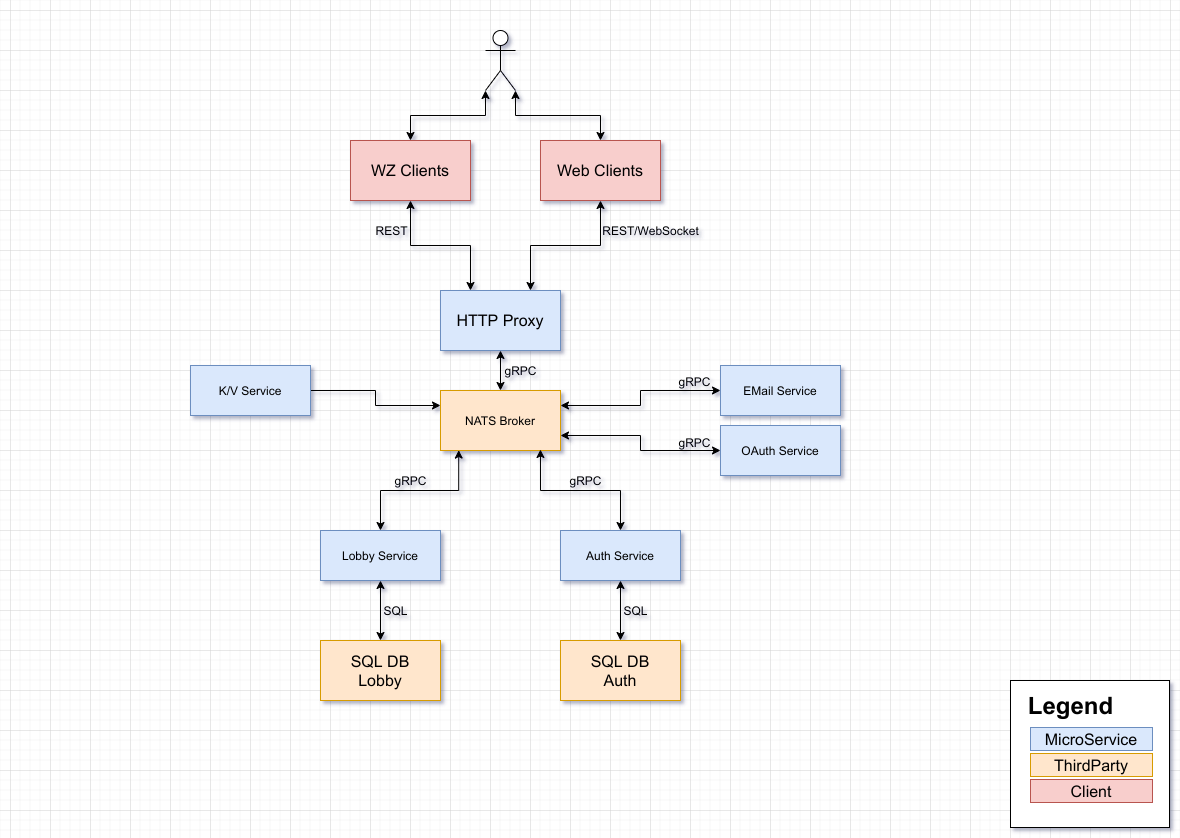
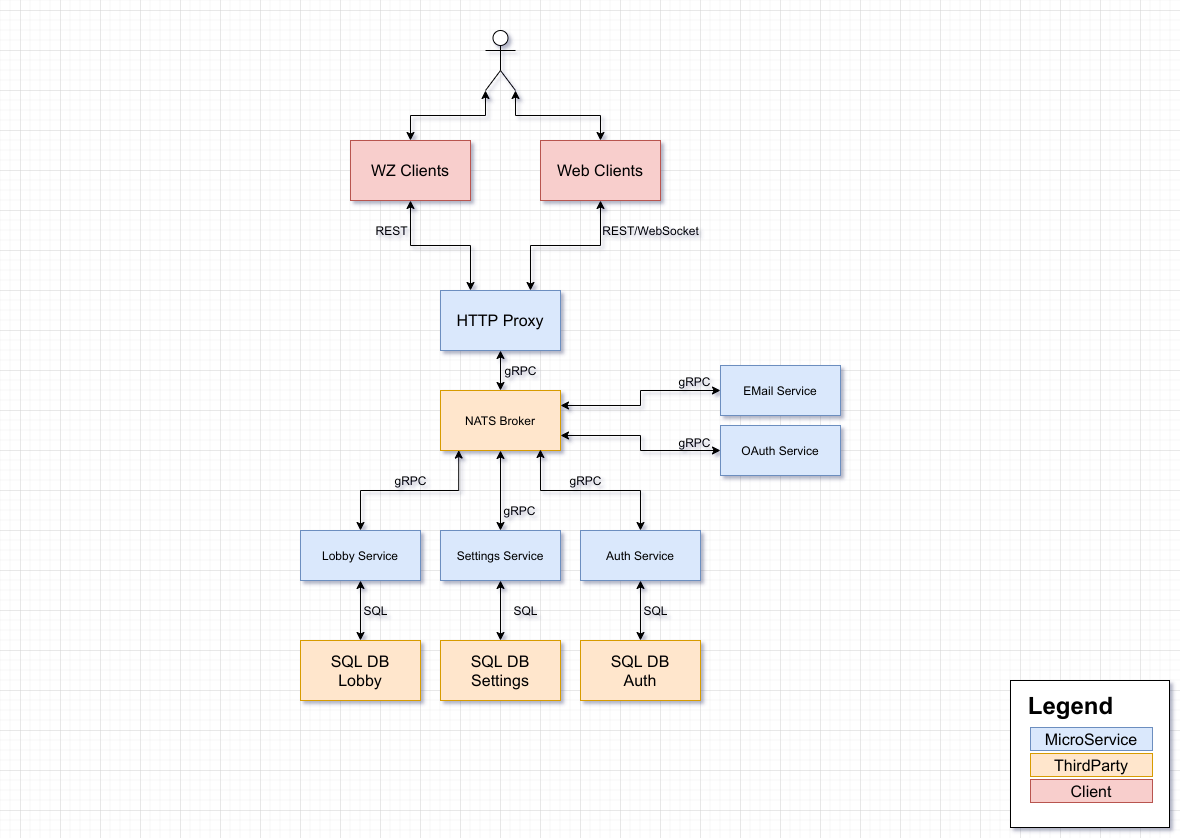
Update docs

Changed region(s): [[0.2441, 0.5895, 0.6102, 0.8687], [0.1525, 0.4344, 0.2746, 0.5274]]

diff --git a/README.md b/README.md
@@ -1,7 +1,48 @@
 # MicroLobby - 3rd gen lobbyserver for Warzone 2100
 
-Microlobby is the next next gen lobbyserver for Warzone 2100.
+MicroLobby is the next, next gen lobbyserver for Warzone 2100 after [wzlobbserver-ng](https://github.com/Warzone2100/wzlobbyserver-ng).
 
-https://drive.google.com/file/d/131qKd6T_UucugBoACs00VZOpHRsyul3S/view?usp=sharing
+## Basic Architecture
 
+It's written in Golang by using [go-micro.dev/v4](https://go-micro.dev) for simplicity Transport, Registry and Broker is done over NATS.
+
+See this draw.io draw for the Architecture:
 ![Micro Service Architecture](/docs/micro-service-architecture.png)
+
+## Services
+
+### http_proxy
+
+A very simple Proxy to MicroServices which register routes with it:
+
+- Auth Service
+- Lobby Service
+- Settings Service
+
+### Settings Service
+
+Basic Key/Value Store with Permissions
+
+### Auth Service
+
+Give Username + password and you get a JWT back.
+
+### Lobby Service
+
+Register a game, get list of games and unregister it.
+
+### EMail Service
+
+Sends E-Mails for us.
+
+### OAuth Service
+
+Think it will never be implemented but be part of Profile Service which will be added later.
+
+## Authors
+
+René Jochum - rene@jochum.dev
+
+## License
+
+Apache-2.0 License
